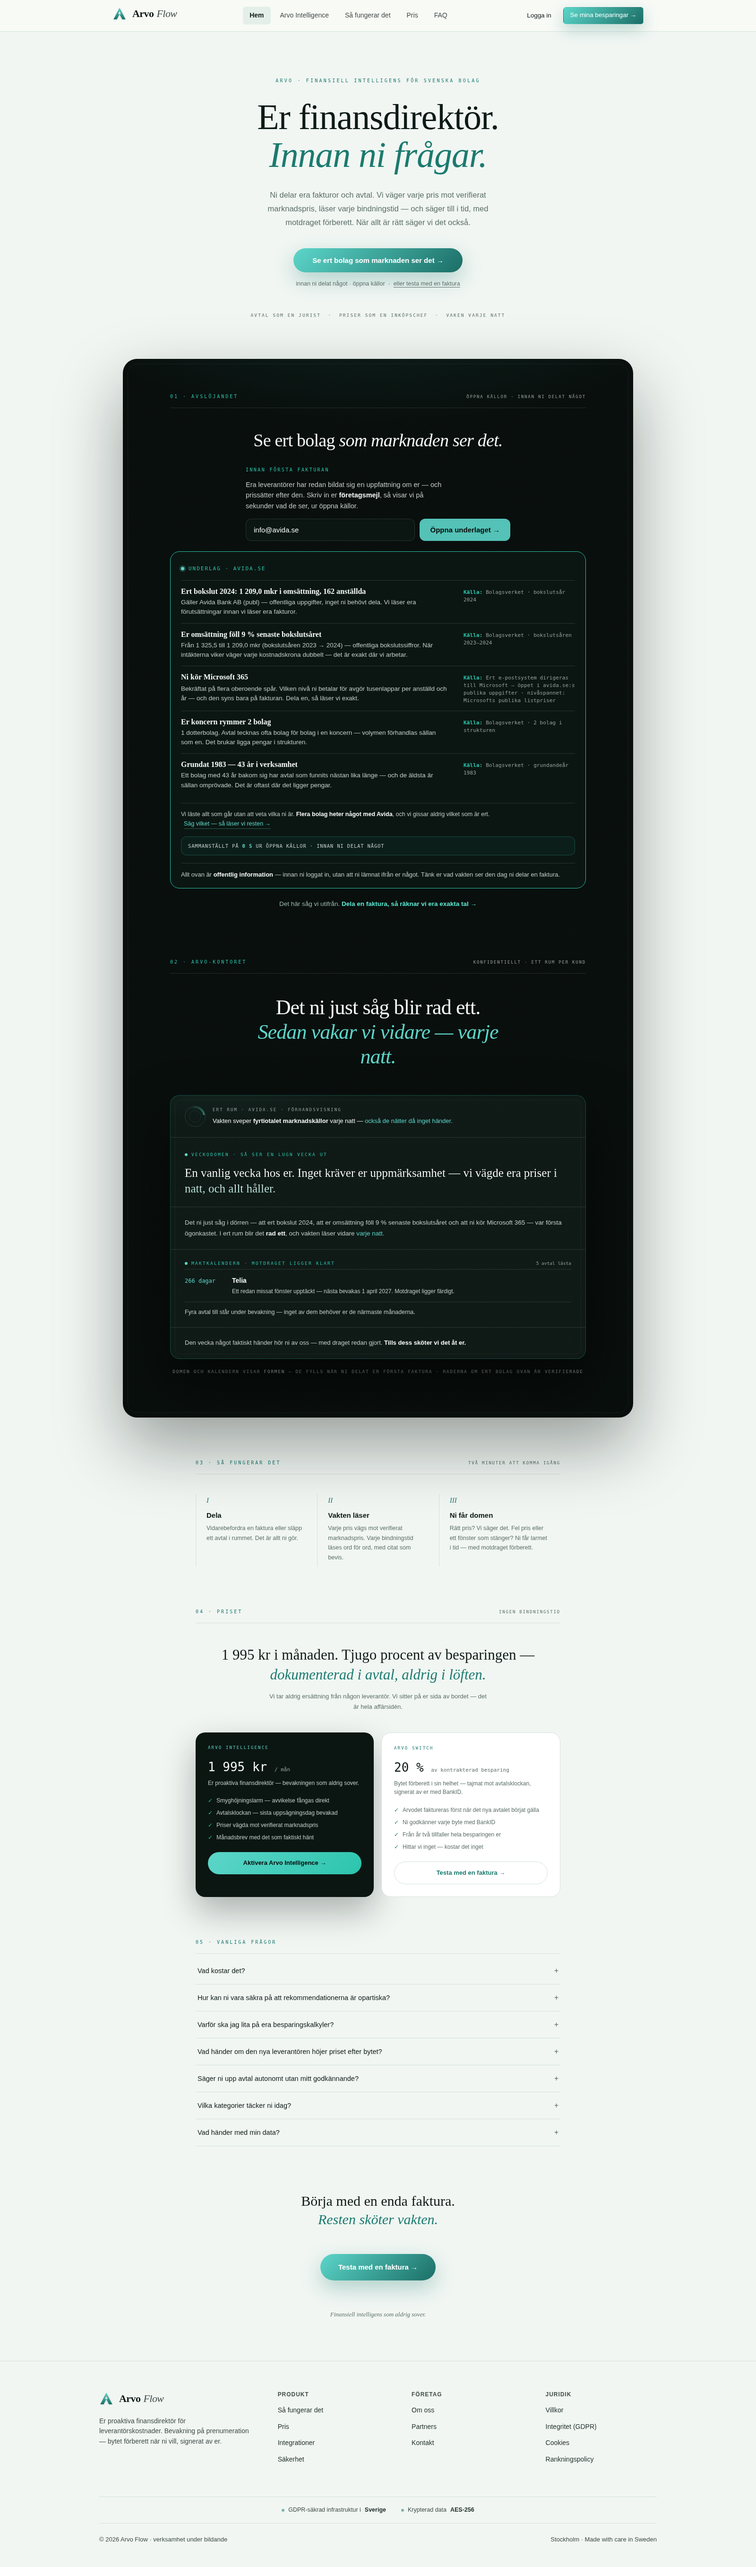
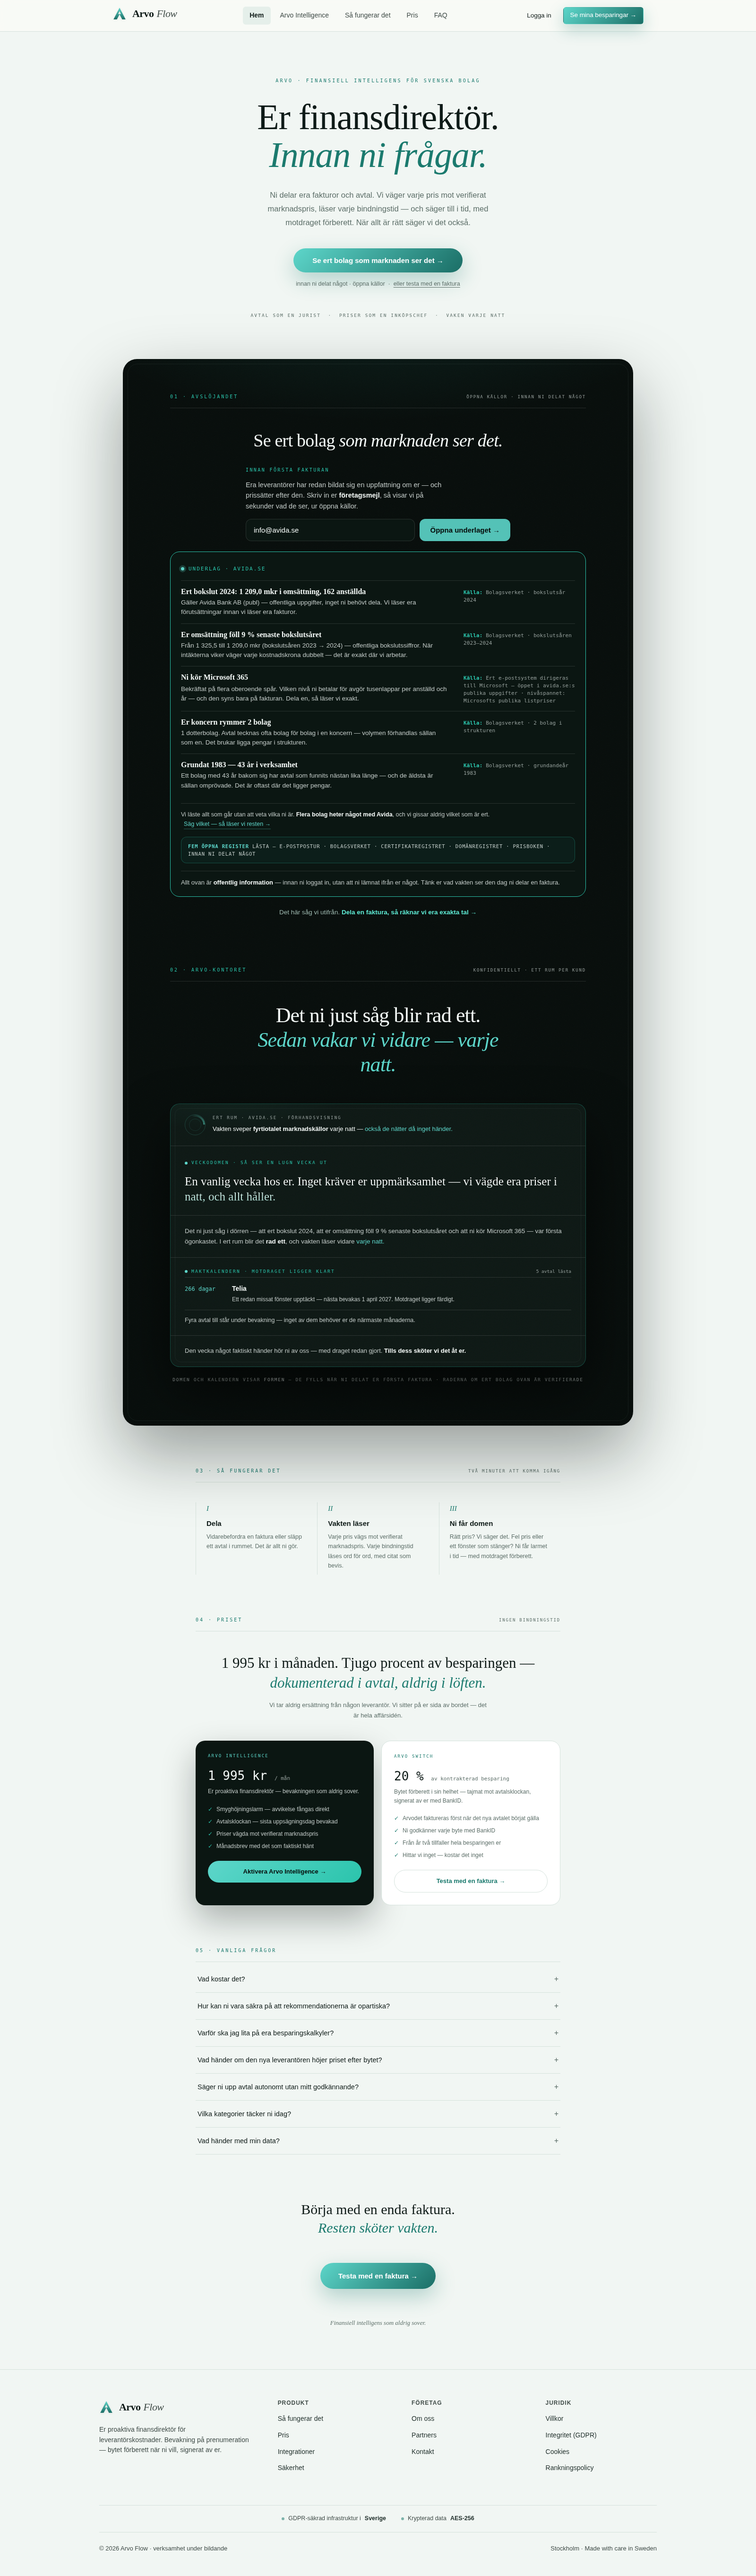
Rätta tre falska påståenden om data — och byt kvittots storhet
DATAN LÅG ALDRIG I SVERIGE. FAQ:n, Connect-badgen och integritetspolicyns
§5 sa alla "Bahnhof, Stockholm". Integritetssidans EGEN underbiträdes-
tabell, två avsnitt längre ned, sa sanningen: Anthropic (USA), Vercel
(USA/EU), Neon (USA), Resend (USA) — och Bahnhof korrekt märkt "planerad".
Dokumentet motsade sig självt, och kunden läser sammanfattningen, inte
tabellen. Ett faktapåstående om var personuppgifter ligger, fel åt den
farliga riktningen: vi lovade svensk lagring vi inte har.

Två grannbullets i samma klausul föll med den: "Loggning av all access
till kunddata (audit trail)" och "Penetrationstester av oberoende part
minst årligen". Ingetdera finns i systemet. Att rätta Bahnhof men lämna
dem hade varit att intyga dem. De står nu under "Planerat, ännu ej i
drift" — regel 9 gäller även i ett juridiskt dokument.

CONNECTS RÄKNARE VAR PÅHITTAD. "1 247 leverantörsfakturor analyserade
denna vecka", med pulserande live-prick, på den yta där kunden ska lämna
ifrån sig bokföringsåtkomst. Systemet har analyserat 38 fakturor sedan
start. Borttagen utan ersättningssiffra — vi har inget volymbevis än, och
då säger vi inget (regel 3). Återinförs bara kopplad mot invoice_analyses.

KVITTOT MÄTTE FEL STORHET. Det bar den uppmätta sekundtiden: 9,1 s när
kortet läste färre register, 21,9 s när det läste fler. Talet blev alltså
sämre varje gång produkten blev bättre, och ett kvitto som skryter med
växande väntetid läser som en ursäkt. Tiden hör hemma UNDER arbetet, där
[…]

diff --git a/src/components/RevealCard.js b/src/components/RevealCard.js
@@ -2,11 +2,14 @@
 // Varje rad bär sin KÄLLA (regel 3) — det är källan som bygger trovärdigheten: inte att vi
 // påstår att vi är vassa, utan att vi visar exakt var vi läste av det. Dossier-mörkt (regel 6).
 //
-// DE TIO SEKUNDERNA (premium-lyftet 2026-07-13): väntetiden ÄR demonstrationen — maskinen
-// arbetar synligt (verklig sekundräknare + de källor som faktiskt läses parallellt), raderna
-// materialiseras en i taget, och kortet stängs med ett KVITTO på uppmätt tid. Integritets-
-// linjen: inga fejkade per-stegs-bockar (klienten kan inte veta delmomentens status — att visa
-// dem vore Potemkin); timern är performance.now()-mätt, aldrig ett önsketal.
+// VÄNTETIDEN ÄR DEMONSTRATIONEN (premium-lyftet 2026-07-13): maskinen arbetar synligt — verklig
+// sekundräknare + de källor som faktiskt läses parallellt — och raderna materialiseras en i taget.
+// Integritetslinjen: inga fejkade per-stegs-bockar (klienten kan inte veta delmomentens status —
+// att visa dem vore Potemkin); timern är performance.now()-mätt, aldrig ett önsketal.
+//
+// KVITTOT MÄTER BREDD, INTE VÄNTAN (2026-08-07): tiden hörde hemma UNDER arbetet, aldrig i
+// kvittot efteråt. Som slutrad blev den ett mått som försämrades varje gång produkten
+// förbättrades (9,1 s → 21,9 s när fler register lades till). Kvittot namnger nu registren.
 import React, { useEffect, useState } from 'react';
 import styled from 'styled-components';
 import { fmtOrgnr } from '../utils/format';
@@ -250,7 +253,12 @@ const Working = styled.section`
 `;
 
 // De öppna källor /api/reveal läser — EN sanning med backend-pipelinen (uppdateras ihop med den).
-const REVEAL_SOURCES = 'e-postpostur · Bolagsverket · certifikatregistret · domänregistret · prisboken';
+// De källor som FAKTISKT läses — en sanning (regel 1), konsumerad både av väntevyn och kvittot.
+// Antalet härleds ur listan så att texten aldrig kan driva från verkligheten.
+const REVEAL_SOURCE_LIST = ['e-postpostur', 'Bolagsverket', 'certifikatregistret', 'domänregistret', 'prisboken'];
+const REVEAL_SOURCES = REVEAL_SOURCE_LIST.join(' · ');
+const RAKNEORD = ['noll', 'ett', 'två', 'tre', 'fyra', 'fem', 'sex', 'sju', 'åtta', 'nio'];
+const antalKallor = RAKNEORD[REVEAL_SOURCE_LIST.length] ?? String(REVEAL_SOURCE_LIST.length);
 
 export function RevealWorking({ email }) {
   const domain = (String(email || '').split('@')[1] || '').toLowerCase();
@@ -273,7 +281,7 @@ export function RevealWorking({ email }) {
   );
 }
 
-export function RevealPrompt({ email, setEmail, onSubmit, loading, reveal, note, elapsedS, pending, onValjBolag }) {
+export function RevealPrompt({ email, setEmail, onSubmit, loading, reveal, note, pending, onValjBolag }) {
   return (
     <>
       <Prompt onSubmit={onSubmit}>
@@ -292,12 +300,12 @@ export function RevealPrompt({ email, setEmail, onSubmit, loading, reveal, note,
         {note && <p className="rp-note">{note}</p>}
       </Prompt>
       {loading && <RevealWorking email={email} />}
-      {!loading && reveal && <RevealCard domain={reveal.domain} findings={reveal.findings} elapsedS={elapsedS} pending={pending} identity={reveal.identity} onValjBolag={onValjBolag} />}
+      {!loading && reveal && <RevealCard domain={reveal.domain} findings={reveal.findings} pending={pending} identity={reveal.identity} onValjBolag={onValjBolag} />}
     </>
   );
 }
 
-export default function RevealCard({ domain, findings, elapsedS, pending, identity, onValjBolag }) {
+export default function RevealCard({ domain, findings, pending, identity, onValjBolag }) {
   const [blandareOppen, setBlandareOppen] = React.useState(false);
   if (!domain || !findings?.length) return null;
   const kandidater = identity?.candidates ?? [];
@@ -372,14 +380,22 @@ export default function RevealCard({ domain, findings, elapsedS, pending, identi
           Djupare register arbetar fortfarande — certifikatregistret svarar långsamt. Fler rader kan landa här.
         </div>
       )}
-      {/* Kvittot: uppmätt tid (performance.now() runt det verkliga anropet) — aldrig ett önsketal. */}
-      {!pending && elapsedS > 0 && (
+      {/* ── KVITTOT MÄTER ARBETE, INTE VÄNTAN (grundarbeslut 2026-08-07, kväll) ─────────────────
+          Kvittot bar den uppmätta sekundtiden. Ärligt — men fel storhet: talet var 9,1 s när
+          kortet läste färre register och 21,9 s när det läste fler. Siffran blev alltså SÄMRE
+          varje gång produkten blev BÄTTRE, och ett kvitto som skryter med en växande väntetid
+          läser som en ursäkt. Vi slutade dessutom lova tid i hjärtat av sidan; att ändå
+          rapportera den som prestation var en kvarleva.
+          Rätt storhet är BREDD: vad maskinen hann läsa utan att kunden lämnat ifrån sig något.
+          Samma verkliga fakta, den enda som växer åt rätt håll — och listan är densamma som
+          väntevyn visar, aldrig en separat sanning. */}
+      {!pending && (
         <div className="rv-receipt">
-          Sammanställt på <b>{elapsedS.toLocaleString('sv-SE', { maximumFractionDigits: 1 })} s</b> ur öppna källor · innan ni delat något
+          <b>{antalKallor} öppna register</b> lästa — {REVEAL_SOURCES} · innan ni delat något
         </div>
       )}
       <p className="rv-foot">
-        Allt ovan är <b>offentlig information</b>{elapsedS > 0 ? '' : ', sammanställd på sekunder'} — innan ni loggat in,
+        Allt ovan är <b>offentlig information</b> — innan ni loggat in,
         utan att ni lämnat ifrån er något. Tänk er vad vakten ser den dag ni delar en faktura.
       </p>
     </Wrap>

diff --git a/src/pages/Landing/index.js b/src/pages/Landing/index.js
@@ -92,7 +92,7 @@ const FAQ = [
   },
   {
     q: 'Vad händer med min data?',
-    a: 'Arvo ser endast det ni vidarebefordrar — leverantörsfakturor, inget annat. Datan lagras krypterad i Sverige (Bahnhof Stockholm). Kopplar ni in Fortnox eller Visma gäller samma princip: enbart läs-rättigheter mot leverantörsfakturor. Vi säljer aldrig identifierbar data — anonymiserade branschindex är vår enda dataprodukt utöver tjänsten.',
+    a: 'Arvo ser endast det ni vidarebefordrar — leverantörsfakturor, inget annat. Behandlingen sker inom EU/EES och i USA hos namngivna underbiträden under EU-godkända standardavtalsklausuler (SCC) — varje biträde står listat med namn, funktion och land i vår integritetspolicy, inklusive de vi ännu inte tagit i drift. Kopplar ni in Fortnox eller Visma gäller samma princip: enbart läs-rättigheter mot leverantörsfakturor. Vi säljer aldrig identifierbar data — anonymiserade branschindex är vår enda dataprodukt utöver tjänsten.',
   },
 ];
 
@@ -128,7 +128,6 @@ export default function Landing() {
   const [revealLoading, setRevealLoading] = useState(false);
   const [reveal, setReveal] = useState(null);
   const [revealNote, setRevealNote] = useState('');
-  const [revealElapsed, setRevealElapsed] = useState(0);   // UPPMÄTT tid runt det verkliga anropet — kvittots enda källa
   const [revealPending, setRevealPending] = useState(false); // våg 2 (djupregistren) arbetar fortfarande
   const doorRef = useRef(null);
 
@@ -160,8 +159,7 @@ export default function Landing() {
     e?.preventDefault?.();
     const email = revealEmail.trim();
     if (!email || revealLoading) return;
-    setRevealLoading(true); setReveal(null); setRevealNote(''); setRevealElapsed(0);
-    const t0 = performance.now();
+    setRevealLoading(true); setReveal(null); setRevealNote('');
     try {
       // Våg 1: snabbkällorna (bokslut/trend/mejlposter) på sekunder. Våg 2: fulla budgeten
       // (certifikatregistret 25 s) — nya rader läggs SIST och materialiseras sent (dramat).
@@ -196,7 +194,6 @@ export default function Landing() {
             }
           } finally { clearTimeout(cap); }
         } catch { /* våg 1 står redan — dramat uteblir, kortet består */ }
-        setRevealElapsed((performance.now() - t0) / 1000);
         setRevealPending(false);
       }
       else setRevealNote(data.note || data.error || 'Domänen bar inga öppna spår just nu — dela en faktura i stället, så läser vi de verkliga talen.');
@@ -295,7 +292,7 @@ export default function Landing() {
               <RevealPrompt
                 email={revealEmail} setEmail={setRevealEmail}
                 onSubmit={runReveal} loading={revealLoading}
-                reveal={reveal} note={revealNote} elapsedS={revealElapsed} pending={revealPending}
+                reveal={reveal} note={revealNote} pending={revealPending}
                 onValjBolag={valjBolag}
               />
               {!reveal && !revealLoading && <RevealTeaser />}

diff --git a/src/pages/Integritet/index.js b/src/pages/Integritet/index.js
@@ -161,13 +161,25 @@ const Integritet = () => (
 
       <Clause>
         <h3>5. Var data lagras &amp; säkerhet</h3>
-        <p>All data lagras inom EU/EES, primärt hos Bahnhof i Stockholm. Vi använder:</p>
+        {/* RÄTTAT 2026-08-07: klausulen påstod "primärt hos Bahnhof i Stockholm" — och motsade
+            därmed sin EGEN underbiträdestabell två avsnitt ned, där Bahnhof korrekt står som
+            planerad och fyra amerikanska biträden står i drift. Kunden läser sammanfattningen,
+            inte tabellen, så det var sammanfattningen som ljög. Två bullets föll samtidigt:
+            "audit trail" och "penetrationstester årligen" saknar motsvarighet i systemet.
+            Ett säkerhetslöfte utan mekanik är regel 9 i ett juridiskt dokument. Kvar står bara
+            det vi faktiskt kan visa — och det som är planerat är märkt som planerat. */}
+        <p>Behandlingen sker inom EU/EES och i USA. Underbiträdena är namngivna i avsnitt 7 med
+          funktion och land; överföringar till USA sker under EU-kommissionens
+          standardavtalsklausuler (SCC). Vi driver i dag ingen egen serverhall — plattformarna
+          nedan är våra biträden, och vi listar dem hellre än att sammanfatta dem.</p>
         <ul>
-          <li>AES-256 kryptering i vila</li>
-          <li>TLS 1.3 för all dataöverföring</li>
+          <li>Kryptering i vila hos samtliga lagringsbiträden (Neon, Vercel KV)</li>
+          <li>TLS för all dataöverföring</li>
           <li>Tvåfaktorautentisering för all intern access</li>
-          <li>Loggning av all access till kunddata (audit trail)</li>
-          <li>Penetrationstester av oberoende part minst årligen</li>
+          <li>Analysresultat cachas i högst 6 timmar; Anthropic raderar API-data inom 30 dagar
+            och tränar inte modeller på den</li>
+          <li><em>Planerat, ännu ej i drift:</em> svensk hosting (Bahnhof), audit trail över all
+            access till kunddata, och årlig penetrationstest av oberoende part</li>
         </ul>
       </Clause>
 

diff --git a/src/pages/Connect/index.js b/src/pages/Connect/index.js
@@ -5,7 +5,7 @@ import Button from '../../components/Button';
 import Icon from '../../components/Icon';
 import {
   Page, Wrap, Card, Step, Title, Lede,
-  DataContract, DataCol, NoWaste, ScanCounter, Reassurance,
+  DataContract, DataCol, NoWaste, Reassurance,
   BadgeStrip, Badge,
   ProfileSection, ProfileHeading, ProfileRow, ProfileField,
   ProviderRow, ProviderBtn, Actions, SmallNote, Spinner,
@@ -146,17 +146,22 @@ const Connect = () => {
               <strong>AES-256</strong>
               <span>Krypterad i vila & i transport</span>
             </Badge>
+            {/* RÄTTAT 2026-08-07: badgen sa "Data hos Bahnhof, Stockholm". Bahnhof är planerat,
+                inte i drift — biträdena är i dag Neon, Vercel, Anthropic och Resend, under SCC.
+                En trygghetsbadge som påstår fel land är värre än ingen badge alls. */}
             <Badge>
               <div className="icon"><Icon name="check" size={16} stroke={2.2} /></div>
-              <strong>Sverige</strong>
-              <span>Data hos Bahnhof, Stockholm</span>
+              <strong>EU/EES + SCC</strong>
+              <span>Varje biträde namngivet i policyn</span>
             </Badge>
           </BadgeStrip>
 
-          <ScanCounter>
-            <div className="live" />
-            <span><strong>1 247</strong> leverantörsfakturor analyserade denna vecka</span>
-          </ScanCounter>
+          {/* BORTTAGEN 2026-08-07: här stod "1 247 leverantörsfakturor analyserade denna vecka"
+              med en pulserande live-prick. Talet var påhittat — hela systemet har analyserat 38
+              fakturor sedan start. En falsk socialt-bevis-räknare på den yta där kunden ska
+              lämna ifrån sig bokföringsåtkomst är det dyraste stället vi kunde ljuga på.
+              Ingen ersättningssiffra: vi har inget volymbevis än, och då säger vi inget (regel 3).
+              Återinförs ENDAST kopplad mot en verklig räkning ur invoice_analyses. */}
 
           <ConsentRow $error={showConsentError && !consent}>
             <input

diff --git a/src/pages/LandingJuli26/index.js b/src/pages/LandingJuli26/index.js
@@ -137,7 +137,7 @@ const FAQ = [
   },
   {
     q: 'Vad händer med min data?',
-    a: 'Arvo ser endast det ni vidarebefordrar — leverantörsfakturor, inget annat. Datan lagras krypterad i Sverige (Bahnhof Stockholm). Kopplar ni in Fortnox eller Visma gäller samma princip: enbart läs-rättigheter mot leverantörsfakturor. Vi säljer aldrig identifierbar data — anonymiserade branschindex är vår enda dataprodukt utöver tjänsten.',
+    a: 'Arvo ser endast det ni vidarebefordrar — leverantörsfakturor, inget annat. Behandlingen sker inom EU/EES och i USA hos namngivna underbiträden under EU-godkända standardavtalsklausuler (SCC) — varje biträde står listat med namn, funktion och land i vår integritetspolicy, inklusive de vi ännu inte tagit i drift. Kopplar ni in Fortnox eller Visma gäller samma princip: enbart läs-rättigheter mot leverantörsfakturor. Vi säljer aldrig identifierbar data — anonymiserade branschindex är vår enda dataprodukt utöver tjänsten.',
   },
 ];
 
